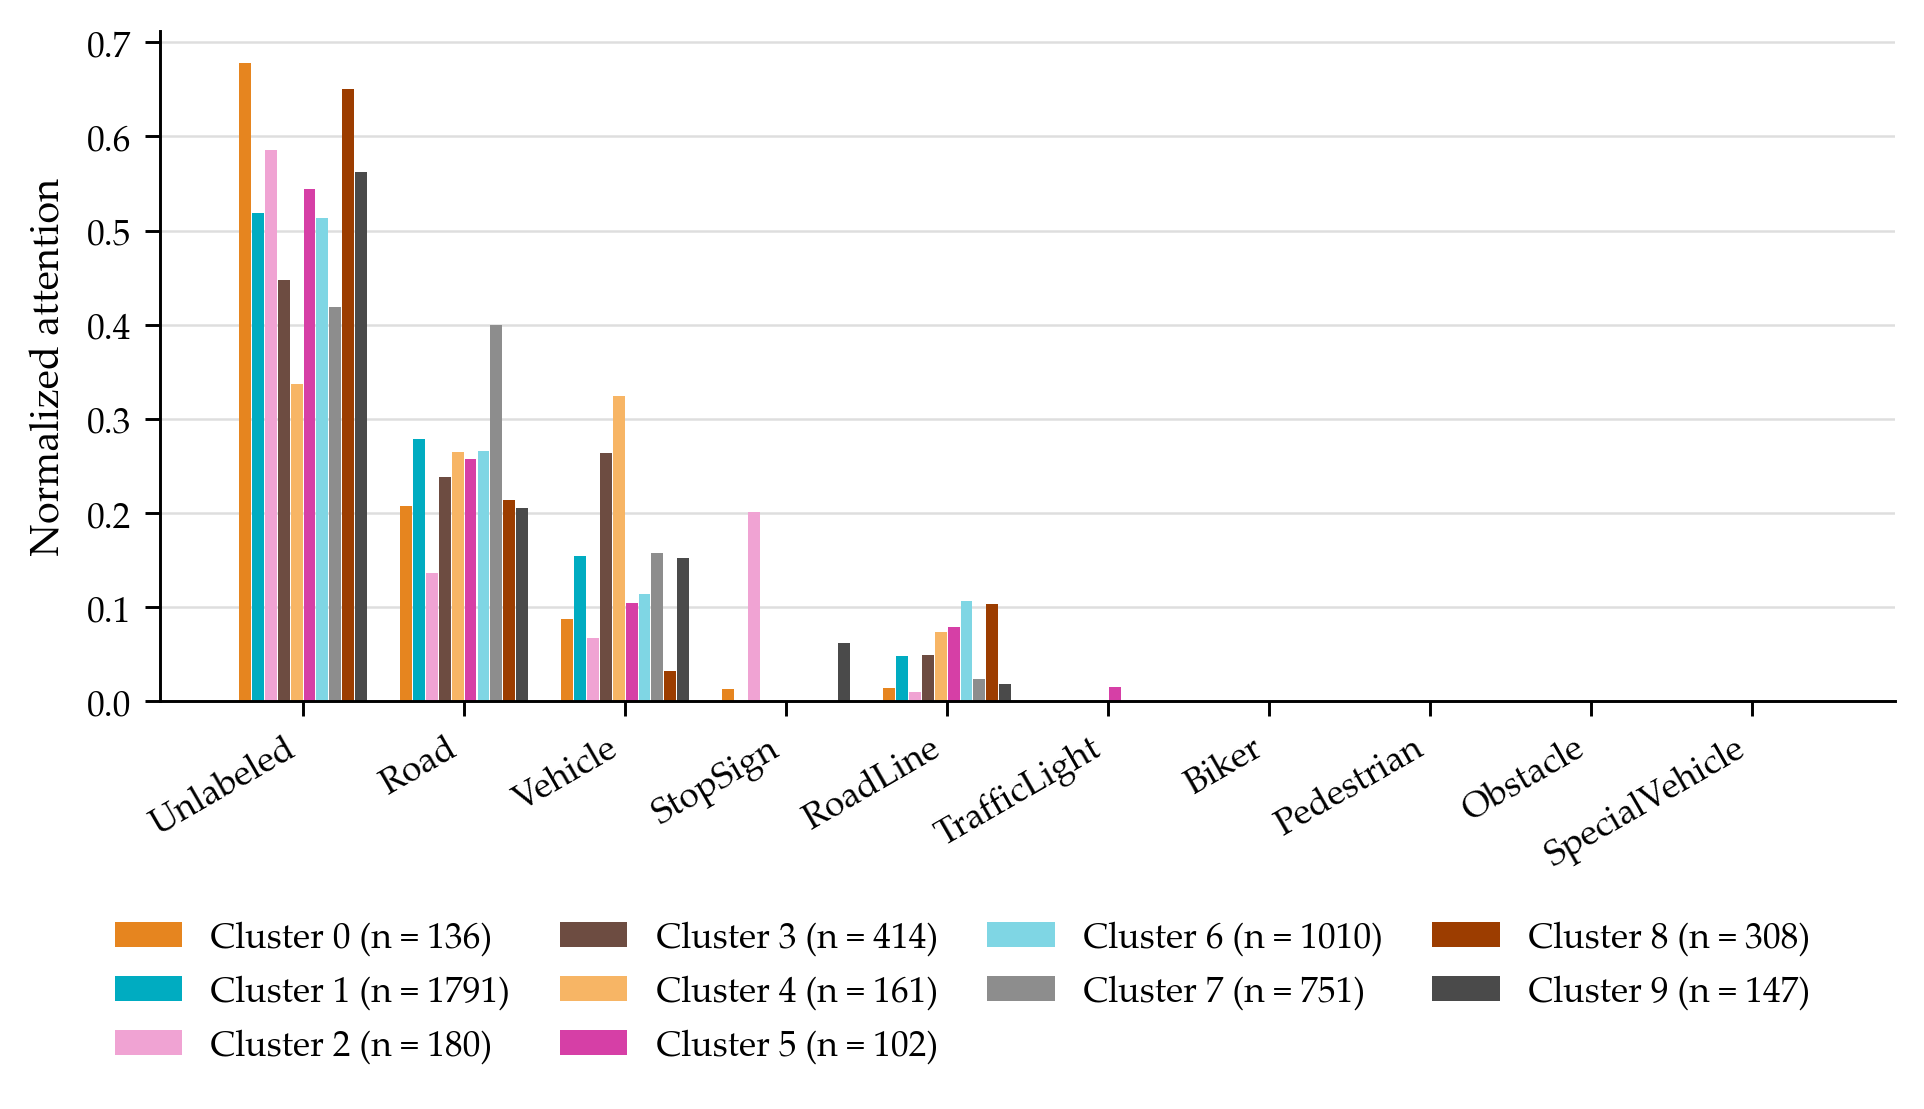
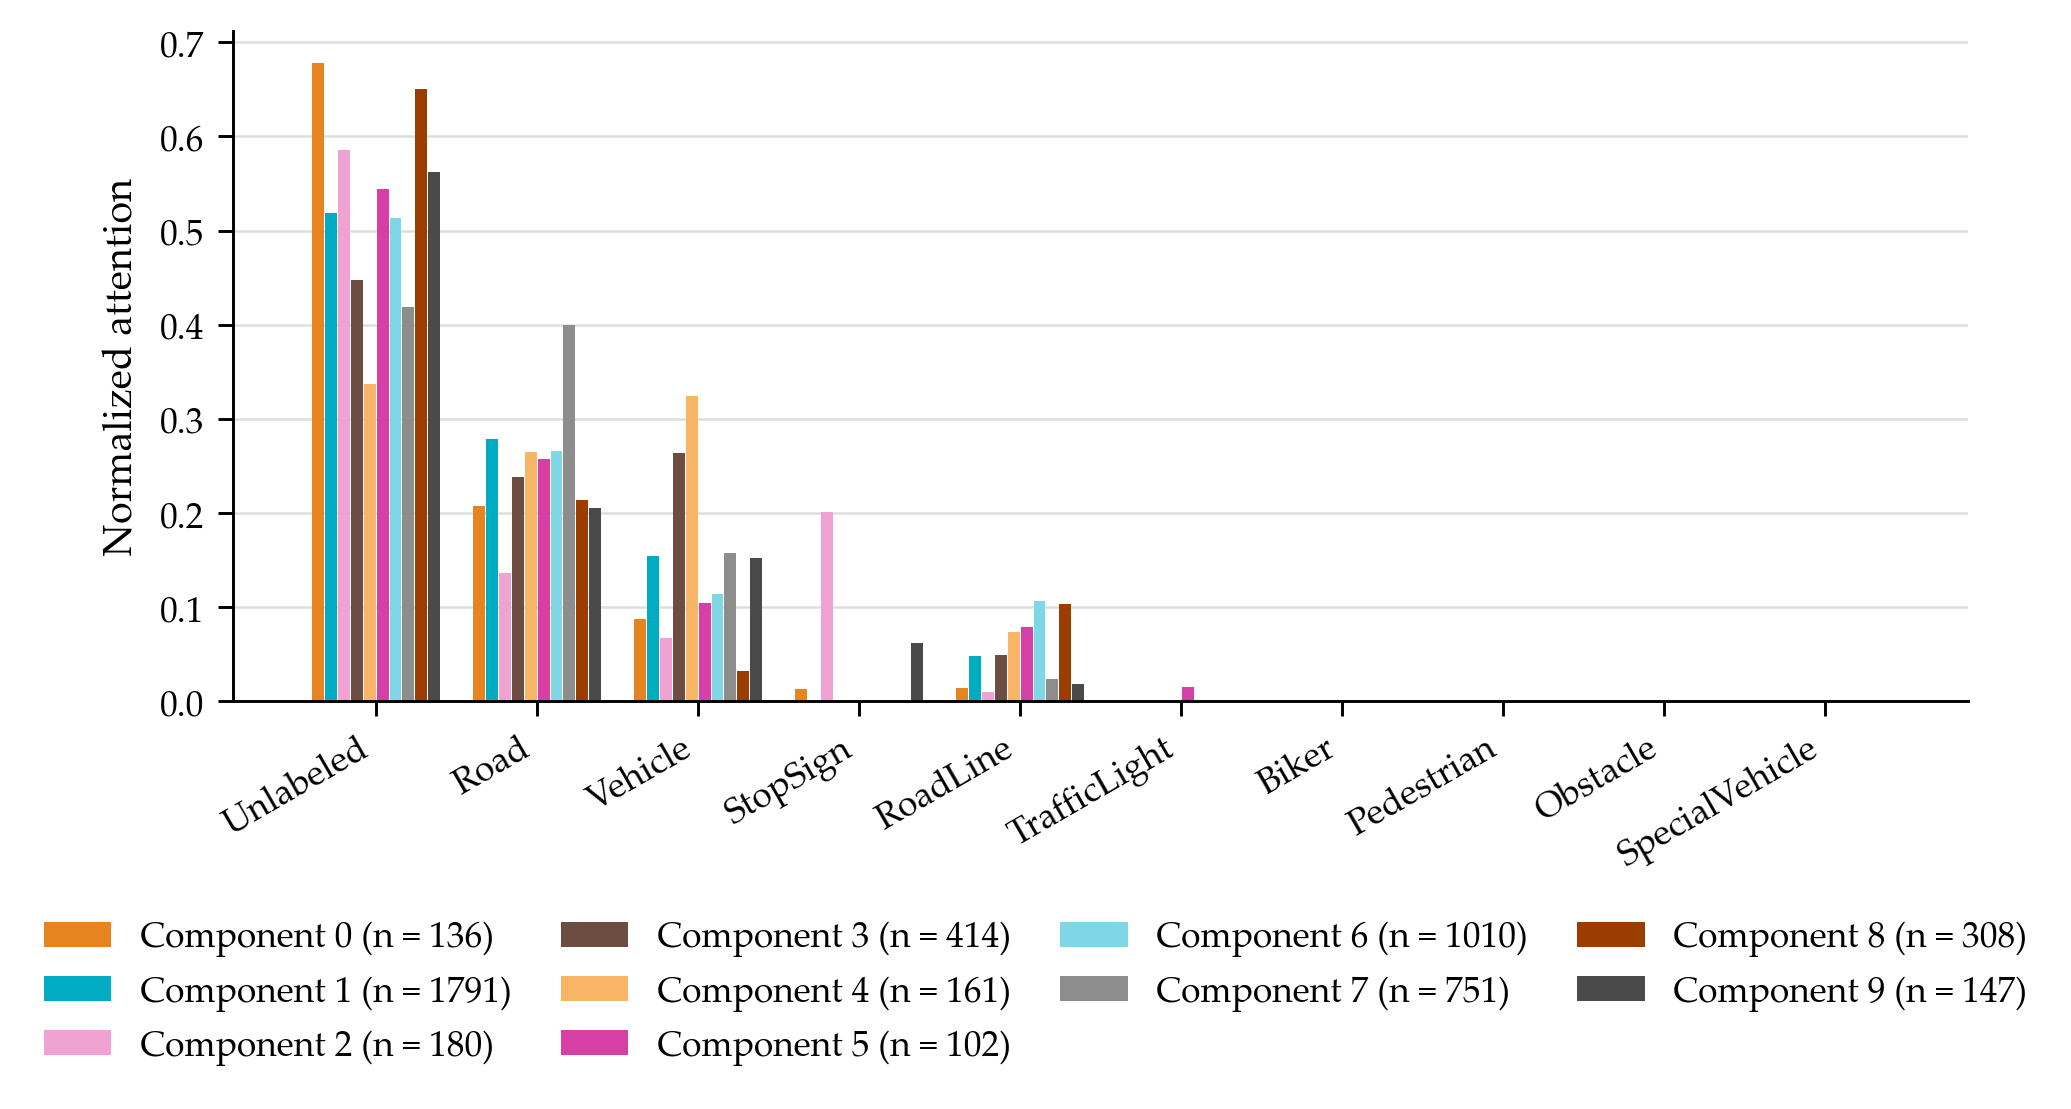
Thesis figures: label mixture components "Component", not "Cluster"
The thesis calls the GMM parts components throughout. The legend of the
PCA figure ("component mean"), the per-component bar legend and the panel
labels of the per-component frames figure now match. Only labels changed;
the sidecars are identical.

diff --git a/make_thesis_figures.py b/make_thesis_figures.py
@@ -616,7 +616,7 @@ def fig_pca_run_vs_gmm() -> None:
                       label=str(k)) for k in range(K)]
     handles.append(Line2D([], [], marker="*", linestyle="none", markersize=9,
                           markerfacecolor="0.85", markeredgecolor="0.15",
-                          markeredgewidth=0.6, label="cluster mean"))
+                          markeredgewidth=0.6, label="component mean"))
     _fig_legend(fig, handles, ncol=K + 1)
 
     save_figure(fig, OUT_DIR, "pca_baseline_run_vs_gmm")
@@ -1242,7 +1242,7 @@ def _cluster_bars(ax, series, labels, k, order_asc, with_whiskers=True):
             color=cluster_color(k), linewidth=0,
             xerr=xerr, error_kw=dict(ecolor="0.35", elinewidth=0.8,
                                      capsize=2.0, capthick=0.8))
-    ax.text(0.97, 0.05, f"Cluster {k} (n = {(labels == k).sum()})",
+    ax.text(0.97, 0.05, f"Component {k} (n = {(labels == k).sum()})",
             transform=ax.transAxes, fontsize=8.5, color=MUTED,
             ha="right", va="bottom")
     ax.set_xlim(0.0, 1.0)
@@ -1378,7 +1378,7 @@ def fig_attention_by_cluster() -> None:
     ax.grid(axis="x", visible=False)
 
     handles = [Patch(facecolor=cluster_color(k),
-                     label=f"Cluster {k} (n = {(labels == k).sum()})")
+                     label=f"Component {k} (n = {(labels == k).sum()})")
                for k in range(K)]
     _fig_legend(fig, handles, ncol=4)
 
